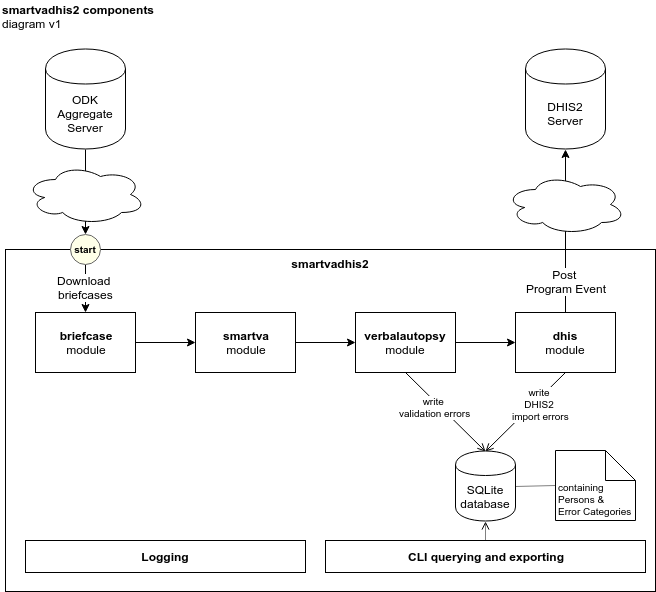
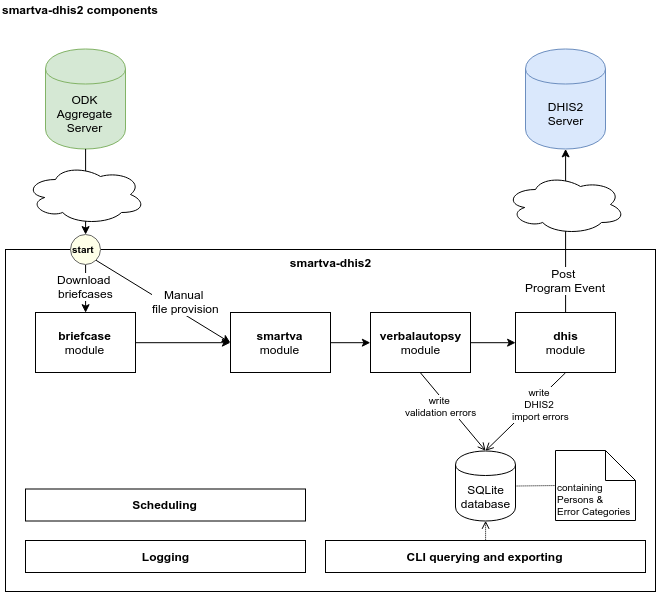
docs

diff --git a/docs/installation.rst b/docs/installation.rst
@@ -1,7 +1,8 @@
 Installation
 ------------
 
-.. note:: It is *highly recommended* to install this on a development/test server before running it in production.
+.. note:: It is *highly recommended* to test the whole configuration part including running over a period of time
+ on a development/test server before implementing it in production.
 
 Use `pipenv <https://docs.pipenv.org>`_ (the recommended wrapper for virtualenvs and pip) to install this package.
 It depends on Python 3.5+ and various packages as described in ``Pipfile`` and DHIS2 2.28 as for now.
@@ -26,19 +27,22 @@ Ubuntu installation (tested with 16.04 LTS)
     sudo apt install python3-venv python3-pip
 
     (As a non-root user)
-    $ pip3 install pipenv --user
-    $ git clone --depth=1 https://github.com/D4H-VA/smartva-dhis2
-    $ cd smartva-dhis2
-    $ pipenv install --ignore-pipfile --deploy
+    pip3 install pipenv --user
+    git clone --depth=1 https://github.com/D4H-VA/smartva-dhis2
+    cd smartva-dhis2
+    pipenv install --ignore-pipfile --deploy
 
 Run
 ^^^^
 
-Refer to the :doc:`/configuration` page first before running it.
+Refer to the configuration pages first before running it:
+
+1. :doc:`/config_dhis2`
+2. :doc:`/config_application`
 
 .. code:: bash
 
-    cd ~/smartva-dhis2 (adjust to path where you cloned the repository)
+    cd ~/smartva-dhis2   (adjust to path where you cloned the repository)
     pipenv run python -m smartvadhis2 [--options]
 
 Options are:
@@ -55,7 +59,8 @@ e.g. if today is ``2018-04-08`` it attempts to download records for ``2018-04-01
 This is scheduled to run every three hours (leading to messages that the record is already in DHIS2)
 but then it's expected.
 
-.. note:: This application builds on the fact that *Study ID numbers* (SID) are always unique and never altered in DHIS2.**
+.. note:: This application builds on the fact that *Study ID numbers* (SID) are **always unique** and **not modified
+ in DHIS2 after the import**.
 
 
 Tests
@@ -65,6 +70,7 @@ To run tests:
 
 .. code:: bash
 
+    pipenv install --dev
     pipenv run python setup.py test
 
 Deployment
@@ -72,11 +78,6 @@ Deployment
 
 Make sure the script is running even after server reboots - how this is achieved depends on the Operating System.
 For systemd-based Operating Systems, you can install the following service.
-
- - Adjust ``~/smartva-dhis2`` to where you've installed the repository
- - Adjust the path to ``pipenv`` - you can find out the path by calling ``which pipenv``.
- - Adjust the ``ubuntu`` user to the user that runs the script
- - ``~`` means "expanding to the home folder of the user as specified in ``User``".
 
 ::
 
@@ -94,7 +95,13 @@ For systemd-based Operating Systems, you can install the following service.
     [Install]
     WantedBy=multi-user.target
 
-Systemd service installation on Ubuntu
+
+- Adjust ``~/smartva-dhis2`` to where you've installed the repository
+- Adjust the path to ``pipenv`` - you can find out the path by calling ``which pipenv``.
+- Adjust the ``ubuntu`` user to the user that runs the script
+- ``~`` means *expanding to the home folder of the user as specified in* ``User=``.
+
+Systemd service installation on Ubuntu:
 
 .. code:: bash
 

diff --git a/docs/local_database.rst b/docs/local_database.rst
@@ -49,11 +49,23 @@ Get the different error code count since a certain date:
 
 .. code:: sql
 
-    select count(pf.failureid), f.failuredescription from person_failure pf
-    join failure f
-    on f.failureid = pf.failureid
-    where pf.created >= '2018-04-24'
-    group by pf.failureid;
+    SELECT count(pf.failureid), f.failuredescription
+    FROM person_failure pf
+    JOIN failure f
+    ON f.failureid = pf.failureid
+    WHERE pf.created >= '2018-04-24'
+    GROUP BY pf.failureid;
+
+
+Get the names and SIDs of attempted imports but were already in DHIS2 (duplicates):
+
+.. code:: sql
+
+    SELECT p.first_name, p.first_name_2nd, p.surname, p.sid
+    FROM person p
+    JOIN person_failure pf
+    ON pf.personid = p.personid
+    WHERE pf.failureid = 704;
 
 
 Supported export formats

diff --git a/docs/components.rst b/docs/components.rst
@@ -3,3 +3,5 @@ smartva-dhis2 components
 
 .. image:: _static/components.png
 
+Diagram created with `draw.io <https://draw.io>`_ and ``_static/components.xml``
+
